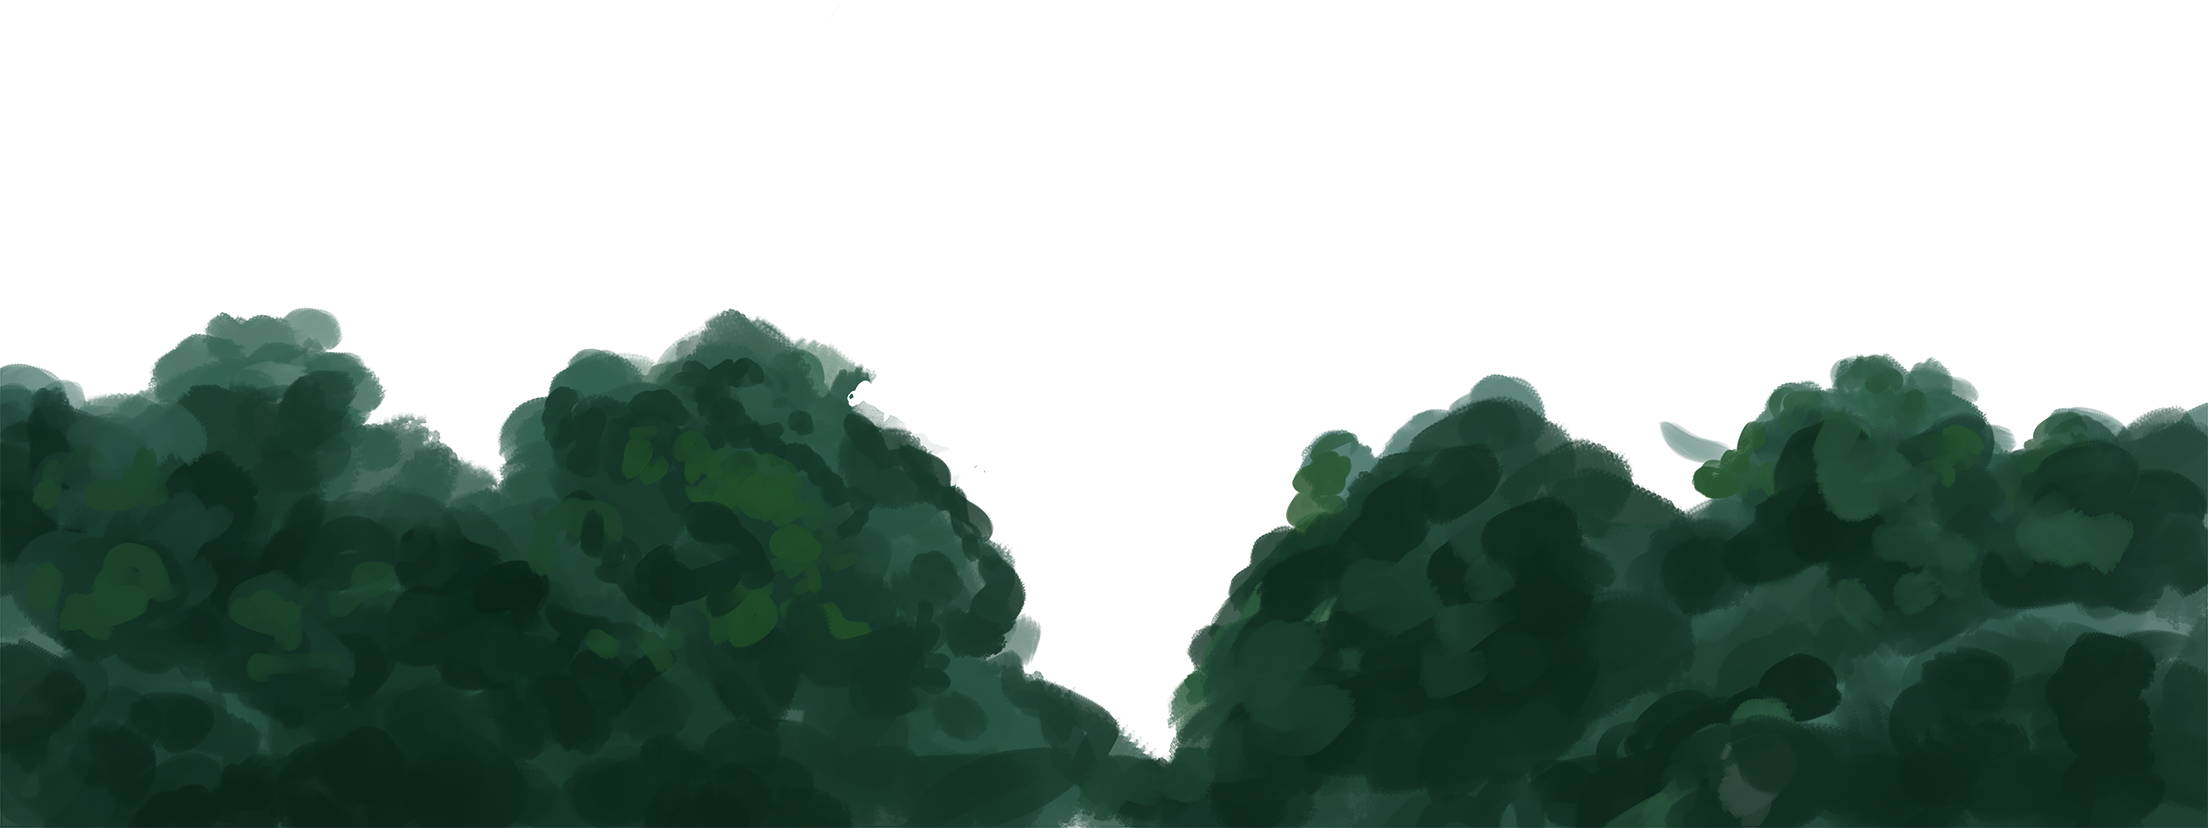
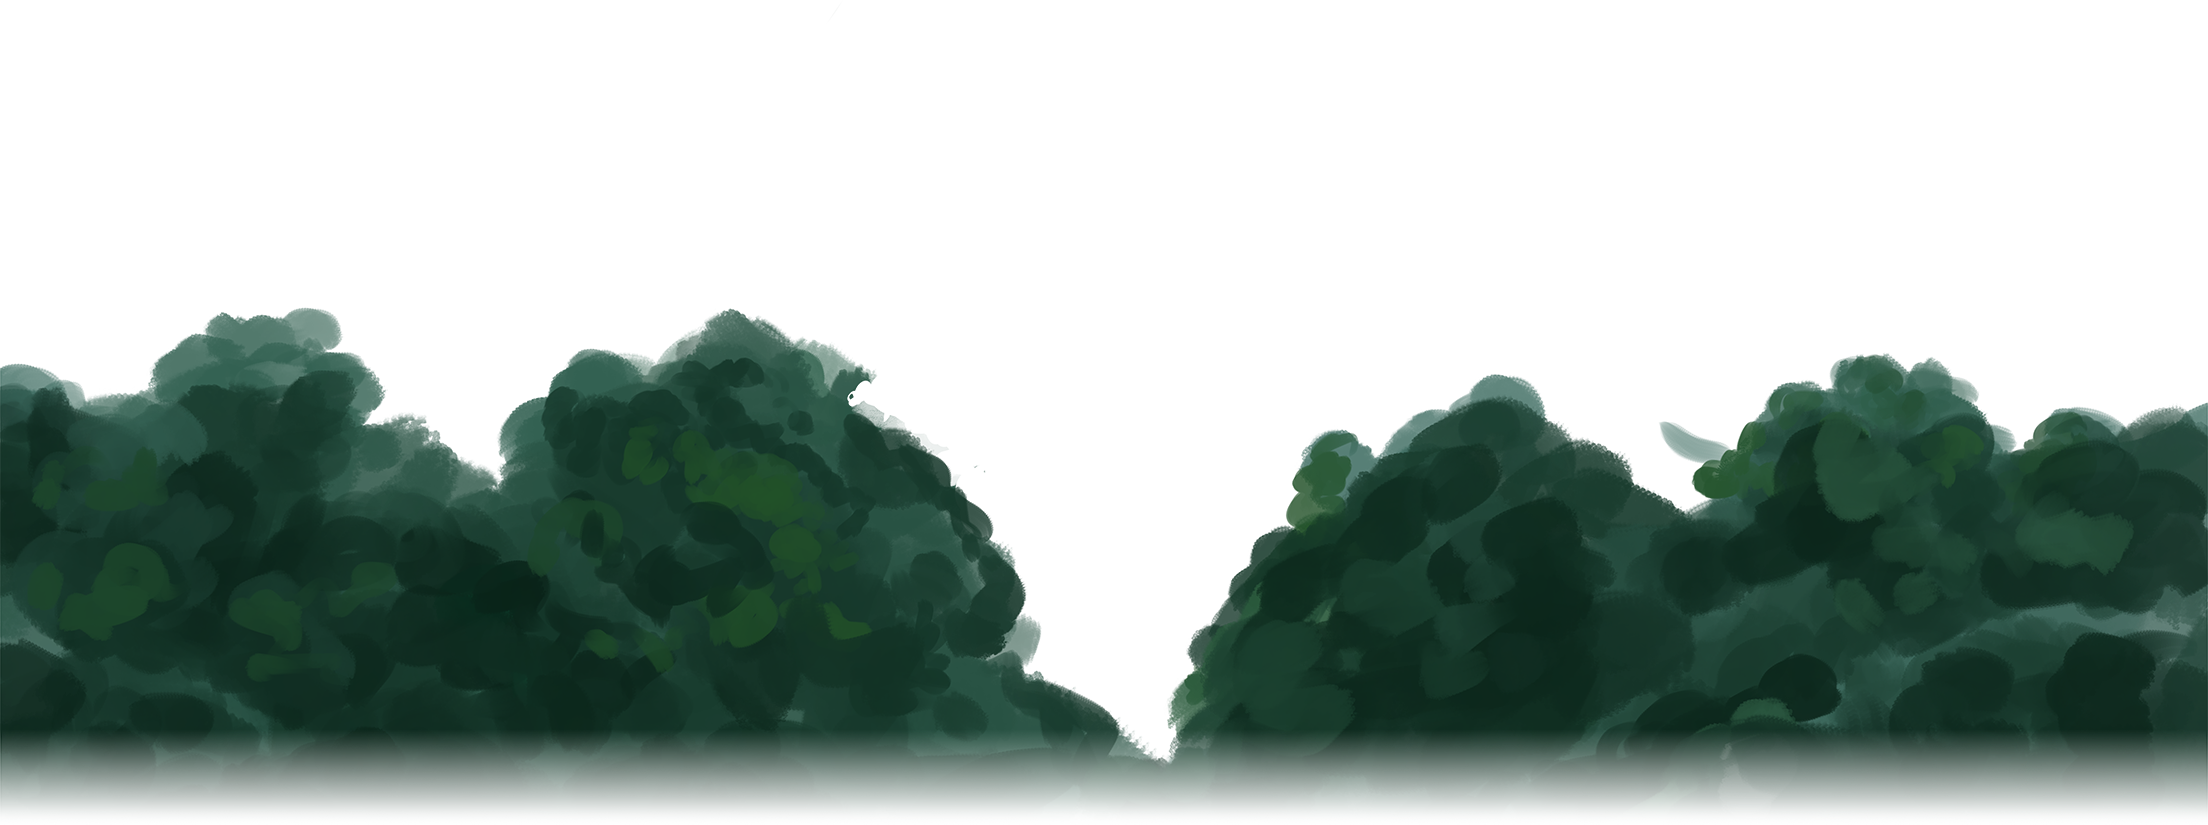
update HomePage.vue

diff --git a/vue3/src/views/HomePage.vue b/vue3/src/views/HomePage.vue
@@ -9,9 +9,7 @@ import HomePage_activity_info from "../components/HomePage_activity_info.vue";
 
   <div class="parallax-container" style="position: relative;">
     <div id="leaves">
-      <i></i><i></i><i></i><i></i><i></i><i></i><i></i><i></i>
-      <i></i><i></i><i></i><i></i><i></i><i></i><i></i><i></i><i></i><i></i><i></i><i></i><i></i><i></i><i></i>
-      <i></i><i></i><i></i><i></i><i></i><i></i><i></i>
+      <i></i><i></i><i></i><i></i><i></i><i></i><i></i><i></i><i></i><i></i><i></i><i></i><i></i><i></i><i></i><i></i>
     </div>
 
     <!-- Parallax Images -->
@@ -107,7 +105,7 @@ import HomePage_activity_info from "../components/HomePage_activity_info.vue";
       <ContentBlock title="最新消息" content=" " :force-visible="true"/>
       <!-- 使用 https://www.commoninja.com/facebook-feed/ 製作-->
 
-      <iframe src="https://www.facebook.com/plugins/page.php?href=https%3A%2F%2Fwww.facebook.com%2FYunlinAnimeFestival%3Flocale%3Dzh_TW&tabs=timeline&width=340&height=500&small_header=false&adapt_container_width=true&hide_cover=false&show_facepile=true&appId" width="500" height="500" style="border:none;overflow:hidden" scrolling="no" frameborder="0" allowfullscreen="true" allow="autoplay; clipboard-write; encrypted-media; picture-in-picture; web-share"></iframe>
+      <iframe src="https://www.facebook.com/plugins/page.php?href=https%3A%2F%2Fwww.facebook.com%2FYunlinAnimeFestival%3Flocale%3Dzh_TW&tabs=timeline&width=340&height=500&small_header=false&adapt_container_width=true&hide_cover=false&show_facepile=true&appId" width="500" height="500" style="border:none;overflow:hidden" scrolling="no" frameborder="0" allow="autoplay; clipboard-write; encrypted-media; picture-in-picture; web-share"></iframe>
       <div class="my-lg-5 pb-lg-5 "></div>
     </div>
   </div>
@@ -123,8 +121,9 @@ import HomePage_activity_info from "../components/HomePage_activity_info.vue";
   height: auto;
   max-height: 150vh;
   object-fit: cover;
-  object-position: center;
+  object-position: top center;
   display: block;
+
 }
 
 
@@ -178,7 +177,7 @@ import HomePage_activity_info from "../components/HomePage_activity_info.vue";
 }
 
 iframe {
-  width: 55%;
+  width: 50.8%;
   display: flex;
   justify-content: center;
   align-items: center;
@@ -190,9 +189,7 @@ iframe {
     scale: 1.35;
     padding-left: 30vw;
   }
-  img{
-    width: 50%
-  }
+
 }
 
 @media only screen and (max-width: 486px) {

diff --git a/vue3/src/style.css b/vue3/src/style.css
@@ -21,6 +21,7 @@ div{
   font-weight: 400;
 }
 
+
 body {
   margin: 0;
   display: flex;
@@ -28,6 +29,31 @@ body {
   max-width: 100vw;
   min-height: 100vh;
   overflow-x: hidden; /* 禁止橫向滾動 */
+  background-image: url('/img/background_top.png'),url('/img/background_buttom.png');
+  background-repeat: no-repeat, no-repeat;
+  background-position: top center, bottom 60vh center;
+  background-size: contain, contain; /* 或根據需要設為 cover/contain */
+}
+@media (max-width: 1440px) {
+  body {
+    background-repeat: no-repeat, no-repeat;
+    background-position: top center, bottom 55vh center;
+    background-size: contain, contain; /* 或根據需要設為 cover/contain */
+  }
+}
+@media (max-width: 760px) {
+  body {
+    background-repeat: no-repeat, no-repeat;
+    background-position: top center, bottom 60vh center;
+    background-size: contain, contain; /* 或根據需要設為 cover/contain */
+  }
+}
+@media (max-width: 480px) {
+  body {
+    background-repeat: no-repeat, no-repeat;
+    background-position: top center, bottom 65vh center;
+    background-size: contain, contain; /* 或根據需要設為 cover/contain */
+  }
 }
 
 h1 {

diff --git a/vue3/src/views/CardMaker.vue b/vue3/src/views/CardMaker.vue
@@ -1,35 +1,14 @@
-<template>
-
-  <div>
-    <ImageCapture ref="ImageCaptureRef">
-      <ContentBlock title=""  :force-visible="true"/>
-      <h1>預定卡片下載</h1>
-      <p>Image Download</p>
-    </ImageCapture>
-    <button @click="capture">Capture</button>
-  </div>
-</template>
-
 <script lang="ts" setup>
-//引入ImageCapture组件
-import ImageCapture from '../components/ImageCapture.vue'
-import {ref} from "vue";
 import ContentBlock from "../components/ContentBlock.vue";
-import type { ComponentPublicInstance } from 'vue';
-
-const ImageCaptureRef = ref<ComponentPublicInstance<{ capture: () => void }> | null>(null);
-//捕获图片
-const capture = () => {
-  if (ImageCaptureRef.value) {
-    ImageCaptureRef.value.capture();
-  } else {
-    console.warn('ImageCaptureRef is not ready.');
-  }
-};
+import CardMaker from "../components/CardMaker_Componment.vue";
 
 </script>
 
+<template>
 
+  <ContentBlock title="預定圖製作器" :content="CardMaker" :is-component="true" :disable="true" :force-visible="true"/>
+
+</template>
 <style scoped>
 
 </style>

diff --git a/vue3/src/views/ClubInfo_list_and_map.vue b/vue3/src/views/ClubInfo_list_and_map.vue
@@ -10,8 +10,8 @@ const cardData:any = [
     title: 'Card 1',
     src: '/img/logo.jpg',
     name:'攤位名稱',
-    description: '這是攤位描述這是攤位描述這是攤位描述這是攤位描述這是攤位描述這是攤位描述',
-    tag: '#tag1',
+    description: '這是攤位描述這是攤位描述這是攤位描述這是攤位描述這是攤位描述這是攤位描述這是攤位描述這是攤位描述這是攤位描述這是攤位描述這是攤位描述這是攤位描述這是攤位描述這是攤位描述這是攤位描述這是攤位描述這是攤位描述這是攤位描述這是攤位描述這是攤位描述這是攤位描述這是攤位描述這是攤位描述這是攤位描述這是攤位描述這是攤位描述這是攤位描述這是攤位描述這是攤位描述這是攤位描述',
+    tag: '#男性向 #cosplay #Hololive #繪師自製周邊 ',
     number: 'A1',
 
   },

diff --git a/vue3/src/components/CardMaker_Componment.vue b/vue3/src/components/CardMaker_Componment.vue
@@ -1,0 +1,34 @@
+<template>
+
+  <div>
+    <ImageCapture ref="ImageCaptureRef">
+      <ContentBlock title=""  :force-visible="true"/>
+      <h1>預定卡片下載</h1>
+      <p>Image Download</p>
+    </ImageCapture>
+    <button @click="capture">Capture</button>
+  </div>
+</template>
+
+<script lang="ts" setup>
+//引入ImageCapture组件
+import ImageCapture from '../components/ImageCapture.vue'
+import {ref} from "vue";
+import ContentBlock from "../components/ContentBlock.vue";
+import type { ComponentPublicInstance } from 'vue';
+
+const ImageCaptureRef = ref<ComponentPublicInstance<{ capture: () => void }> | null>(null);
+//捕获图片
+const capture = () => {
+  if (ImageCaptureRef.value) {
+    ImageCaptureRef.value.capture();
+  } else {
+    console.warn('ImageCaptureRef is not ready.');
+  }
+};
+
+</script>
+
+<style scoped>
+
+</style>

diff --git a/vue3/src/components/ContentBlock.vue b/vue3/src/components/ContentBlock.vue
@@ -23,7 +23,7 @@
       </div>
     </div>
   </div>
-  <div class="my-5 pb-lg-5"></div>
+  <div class="my-lg-5 pb-lg-5"></div>
 </template>
 
 <script lang="ts">
@@ -49,7 +49,7 @@ export default {
     const onScroll = () => {
       if (containerRef.value) {
         const rect = containerRef.value.getBoundingClientRect();
-        if (rect.top <= 300 && !isVisible.value) {
+        if (rect.top <= 200 && !isVisible.value) {
           isVisible.value = true;
           window.removeEventListener('scroll', onScroll);
         }

diff --git a/vue3/src/components/Footer.vue b/vue3/src/components/Footer.vue
@@ -4,12 +4,10 @@ export default {
   data() {
     return {
       images: [
-        "/img/Logo_Fake.png",
-        "/img/Logo_Fake.png",
-        "/img/Logo_Fake.png",
-        "/img/Logo_Fake.png",
-        "/img/Logo_Fake.png",
-        "/img/Logo_Fake.png"
+        "/img/合作圖_創設系會.png",
+        "/img/合作圖_數媒系會.png",
+        "/img/合作圖_跨域系會.png",
+        "/img/D-27國立雲林科技大學.png",
       ]
     };
   },

diff --git a/vue3/src/App.vue b/vue3/src/App.vue
@@ -27,7 +27,7 @@ onMounted(() => {
     setTimeout(() => {
       loader.hide()
       console.log("所有圖片與資源都已載入完成，loading 關閉")
-    }, 0)  // 保證最少顯示 3 秒
+    }, 3)  // 保證最少顯示 3 秒
   }
 })
 </script>
@@ -47,6 +47,7 @@ onMounted(() => {
 .container-fluid{
   width: 100vw;
   height: max-content;
+  background-color: rgba(255, 0, 0, 0);
 }
 
 

diff --git a/vue3/index.html b/vue3/index.html
@@ -3,6 +3,7 @@
   <head>
     <meta charset="UTF-8" />
     <link rel="icon" type="image/svg+xml" href="/svg/YF06_雲緣起LOGO.svg" />
+
       <meta name="google-site-verification" content="z57Y0its4w_vzt-KxTnUJ1aBK8mBDYD41jFKjQxKTys" />
     <meta name="viewport" content="width=device-width, initial-scale=1.0" />
 
